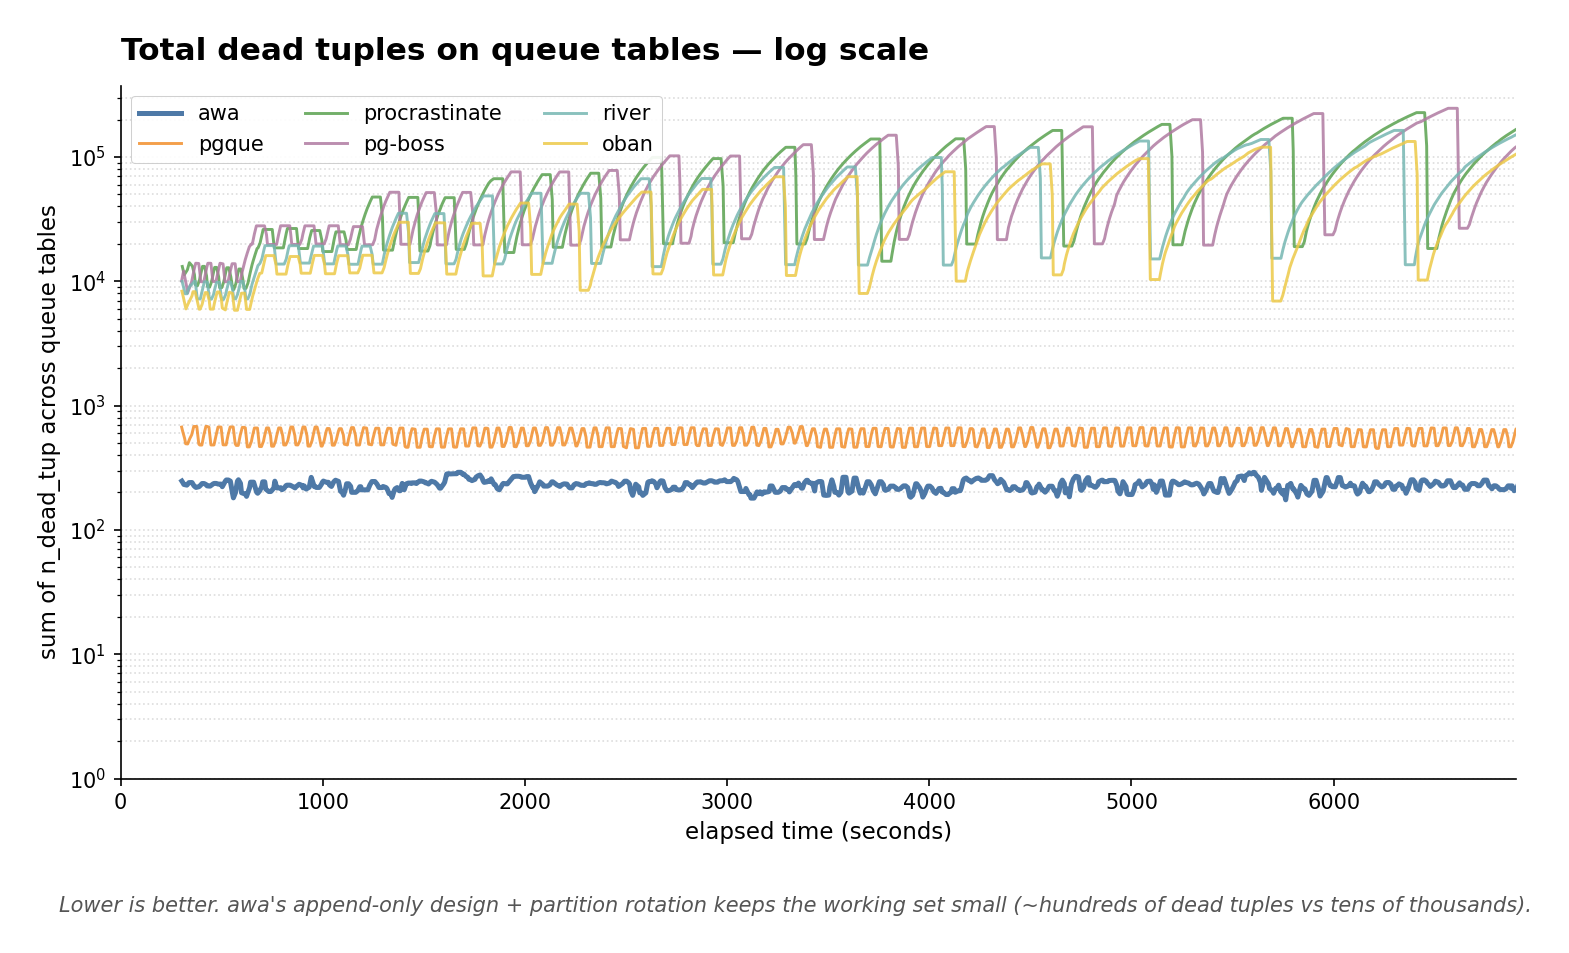
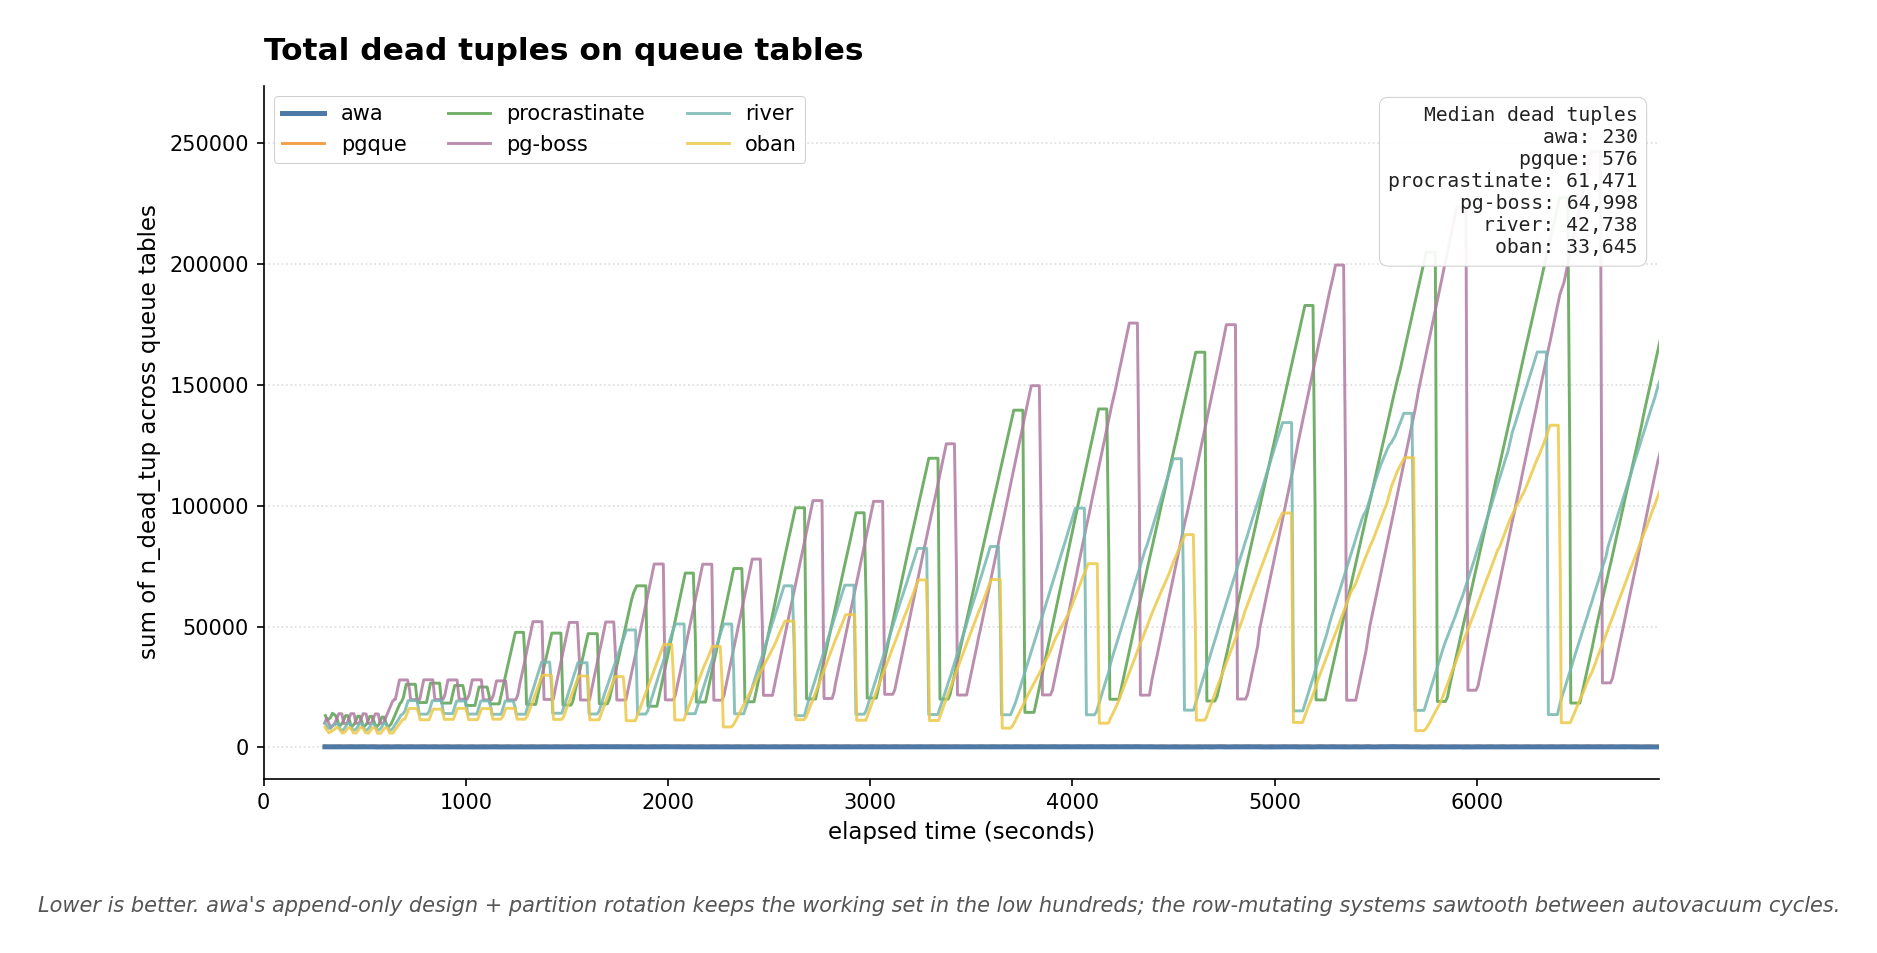
plots: drop log scale, use linear with explicit-value annotations
User feedback: no log-scale graphs in the bench repo. Replaces the
two log-scale charts with linear:

- dead_tuples_total: linear y-axis. awa renders as a near-flat line
  at the bottom while the row-mutating systems sawtooth between
  ~50k-225k between autovacuum cycles. A small medians table sits
  beside the legend so the awa-near-zero number stays legible
  against the visual flatness.

- latency_p95: linear y-axis. pg-boss towers honestly at 342ms while
  the lower bars (procrastinate 11ms, oban + awa 15ms) stay readable
  through their value annotations. The gap is real; the chart now
  shows the gap as it is.

Throughput plot was already linear and unchanged.

diff --git a/scripts/render_readme_plots.py b/scripts/render_readme_plots.py
@@ -261,6 +261,7 @@ def plot_dead_tuples(df: pd.DataFrame, out_path: Path) -> None:
         sub.groupby(["system", "elapsed_s"], as_index=False)["value"].sum()
     )
 
+    medians: dict[str, float] = {}
     for system in SYSTEMS:
         s = grouped[grouped["system"] == system].sort_values("elapsed_s")
         if s.empty:
@@ -268,9 +269,7 @@ def plot_dead_tuples(df: pd.DataFrame, out_path: Path) -> None:
             continue
         xs = s["elapsed_s"].to_numpy(dtype=float)
         ys = s["value"].to_numpy(dtype=float)
-        # For log scale, replace zeros with a small floor so the line stays
-        # visible. Use 1.0 (one dead tuple) as the floor.
-        ys = np.where(ys < 1.0, 1.0, ys)
+        medians[system] = float(np.median(ys))
         # Rolling median smooths the autovacuum sawtooth into a readable
         # envelope at this zoom level (the sawteeth themselves are still
         # visible in the per-system long-horizon plots).
@@ -299,16 +298,42 @@ def plot_dead_tuples(df: pd.DataFrame, out_path: Path) -> None:
         )
 
     ax.set_title(
-        "Total dead tuples on queue tables — log scale",
+        "Total dead tuples on queue tables",
         loc="left",
         pad=12,
     )
     ax.set_xlabel("elapsed time (seconds)")
     ax.set_ylabel("sum of n_dead_tup across queue tables")
     ax.set_xlim(0, 6900)
-    ax.set_yscale("log")
-    ax.set_ylim(1, None)
-    ax.grid(True, axis="y", which="both", linestyle=":", color="#bbb", alpha=0.5)
+    ax.grid(True, axis="y", linestyle=":", color="#bbb", alpha=0.5)
+    # Header table of medians so the awa-near-zero line stays legible
+    # against the autovacuum sawtooth of the row-mutating systems —
+    # a linear-scale chart visually flattens awa, but the table beside
+    # the legend keeps the actual numbers in view.
+    if medians:
+        median_lines = [
+            f"{DISPLAY_NAMES[s]}: {int(round(medians[s])):,}"
+            for s in SYSTEMS
+            if s in medians
+        ]
+        ax.text(
+            0.985,
+            0.97,
+            "Median dead tuples\n" + "\n".join(median_lines),
+            transform=ax.transAxes,
+            ha="right",
+            va="top",
+            fontsize=9.5,
+            color="#222",
+            family="DejaVu Sans Mono",
+            bbox=dict(
+                boxstyle="round,pad=0.45",
+                facecolor="white",
+                edgecolor="#ccc",
+                linewidth=0.5,
+                alpha=0.92,
+            ),
+        )
 
     leg = ax.legend(
         loc="upper left",
@@ -320,8 +345,9 @@ def plot_dead_tuples(df: pd.DataFrame, out_path: Path) -> None:
     leg.get_frame().set_linewidth(0.5)
 
     caption = (
-        "Lower is better. awa's append-only design + partition rotation keeps "
-        "the working set small (~hundreds of dead tuples vs tens of thousands)."
+        "Lower is better. awa's append-only design + partition rotation "
+        "keeps the working set in the low hundreds; the row-mutating "
+        "systems sawtooth between autovacuum cycles."
     )
     fig.text(
         0.5,
@@ -369,25 +395,27 @@ def plot_latency(summary: dict, out_path: Path) -> None:
     x = np.arange(len(rows))
     bars = ax.bar(x, values, color=colors, width=0.62, zorder=3, edgecolor="white")
 
-    ax.set_yscale("log")
     ax.set_xticks(x)
     ax.set_xticklabels(labels)
-    ax.set_ylabel("p95 latency (ms, log scale)")
+    ax.set_ylabel("p95 latency (ms)")
     ax.set_title(
         "End-to-end latency p95 (clean phase median across the 1h55m run)",
         loc="left",
         pad=12,
     )
-    ax.grid(True, axis="y", which="both", linestyle=":", color="#bbb", alpha=0.5)
+    ax.grid(True, axis="y", linestyle=":", color="#bbb", alpha=0.5)
     ax.set_axisbelow(True)
 
-    # Annotate each bar with value + which metric it is.
-    ymax = max(values) * 1.7
-    ax.set_ylim(1, ymax)
+    # Annotate each bar with value + which metric it is. Linear scale
+    # makes pg-boss's tower honest about the gap; small bars stay
+    # readable through the annotation.
+    ymax = max(values) * 1.18
+    ax.set_ylim(0, ymax)
+    label_offset = ymax * 0.02
     for bar, value, metric_label in zip(bars, values, metric_labels, strict=True):
         ax.text(
             bar.get_x() + bar.get_width() / 2,
-            value * 1.06,
+            value + label_offset,
             f"{value:.0f} ms\n({metric_label})",
             ha="center",
             va="bottom",
